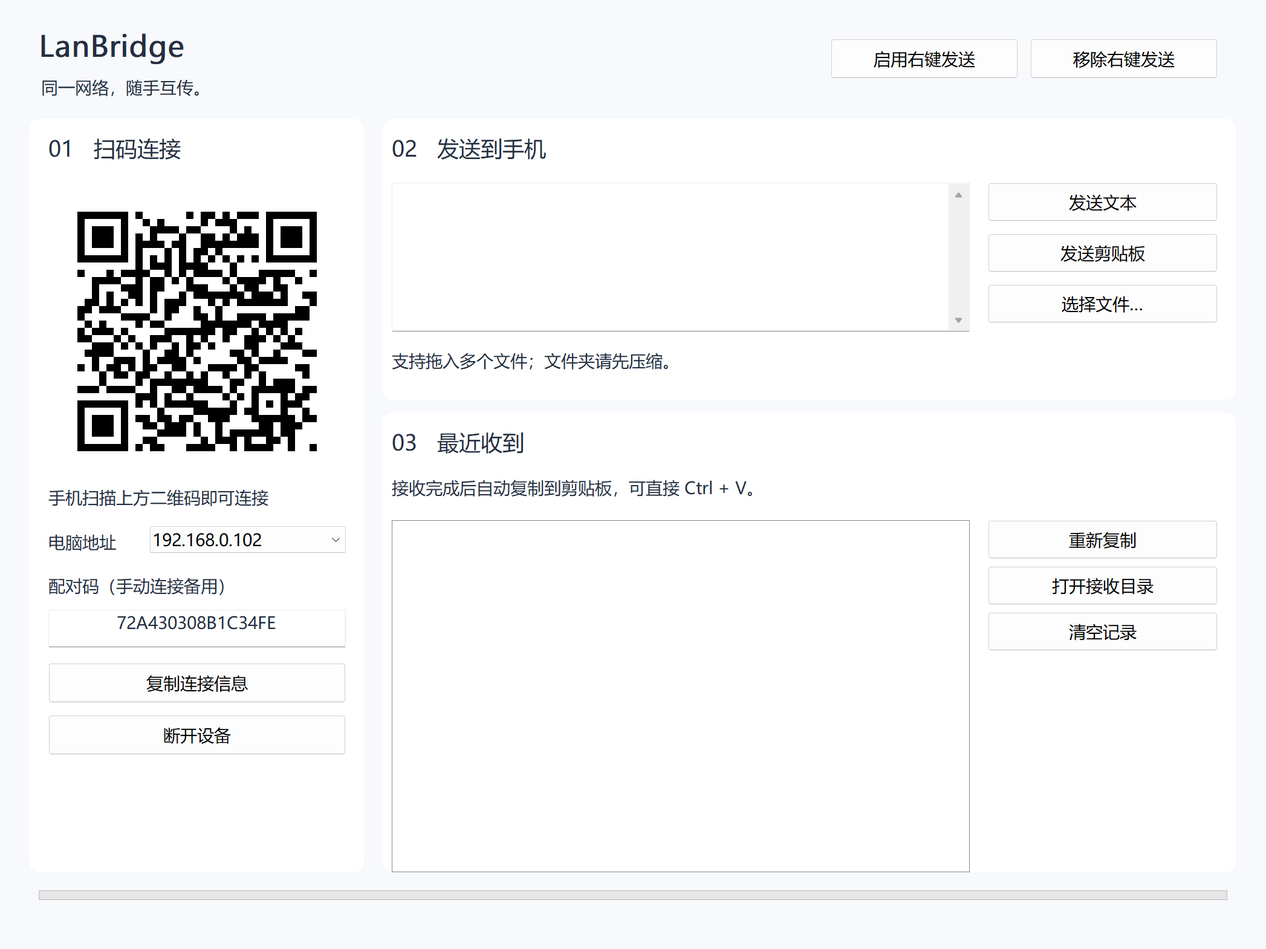
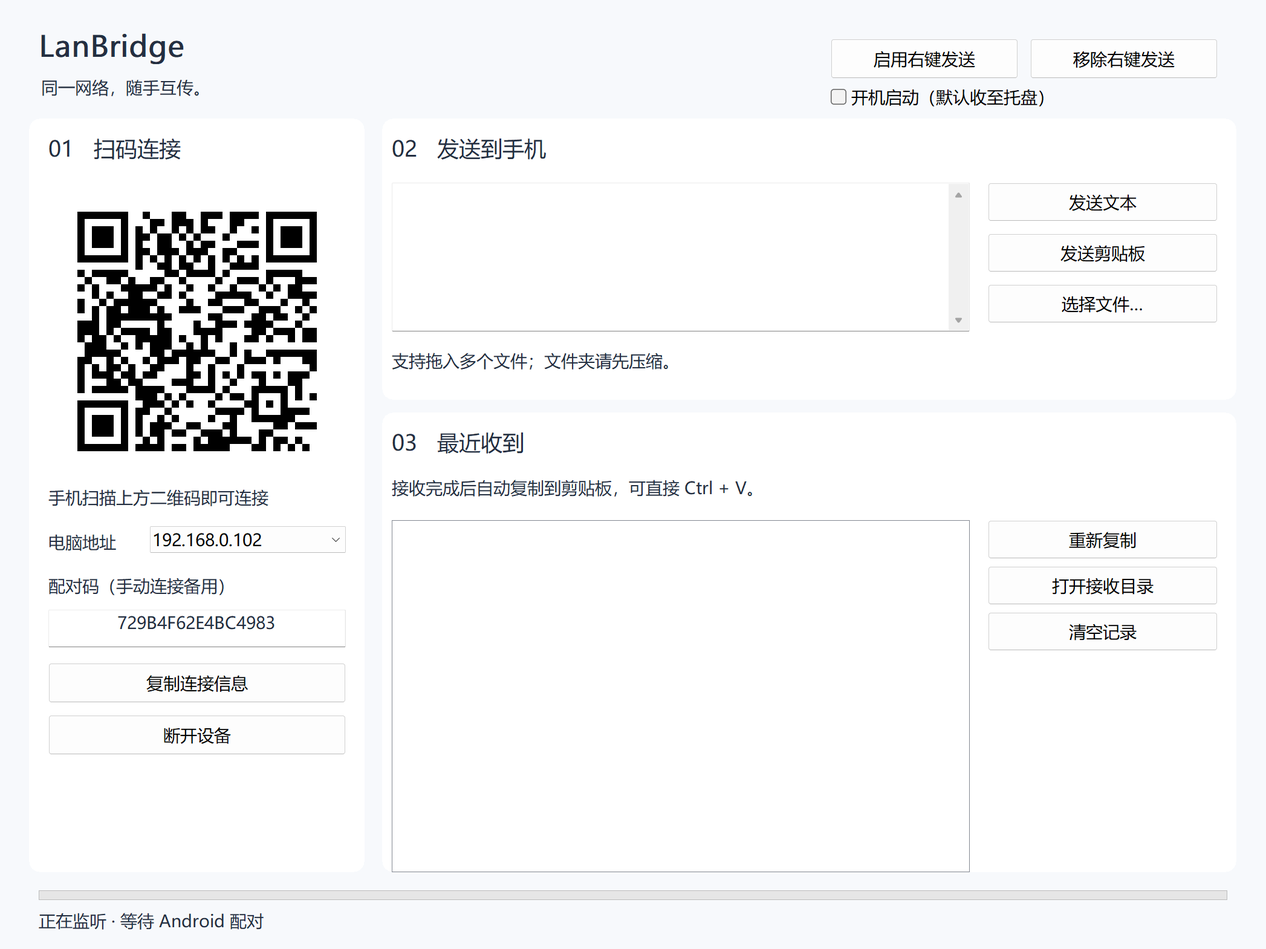
Add current-user Windows startup setting and tray launch

diff --git a/windows/tests/StartupIntegration.cpp b/windows/tests/StartupIntegration.cpp
@@ -1,0 +1,114 @@
+#include "Startup.h"
+#include "Bridge.h"
+#include "ShellTransfer.h"
+#include <shellapi.h>
+#include <objbase.h>
+#include <ws2tcpip.h>
+#include <iostream>
+#include <stdexcept>
+
+void Require(bool condition,const char* message) { if(!condition) throw std::runtime_error(message); }
+struct TemporaryKey {
+    std::wstring path;
+    TemporaryKey() {
+        GUID id{}; CoCreateGuid(&id); wchar_t text[40]{}; StringFromGUID2(id,text,40);
+        path=L"Software\\LanBridge\\StartupTest-"+std::wstring(text);
+    }
+    ~TemporaryKey() {
+        if(path.starts_with(L"Software\\LanBridge\\StartupTest-{")) RegDeleteTreeW(HKEY_CURRENT_USER,path.c_str());
+    }
+};
+void RegistryTest() {
+    TemporaryKey key; auto executable=std::filesystem::path(L"C:\\中文 folder & name\\LanBridge.exe");
+    Require(!startup::ReadCommand(HKEY_CURRENT_USER,key.path.c_str()),"Initially disabled");
+    startup::SetEnabled(false,executable,HKEY_CURRENT_USER,key.path.c_str());
+    startup::SetEnabled(true,executable,HKEY_CURRENT_USER,key.path.c_str());
+    auto command=startup::ReadCommand(HKEY_CURRENT_USER,key.path.c_str());
+    Require(command && *command==L"\"C:\\中文 folder & name\\LanBridge.exe\" --startup","Quoted Unicode startup command");
+    int count=0; auto arguments=CommandLineToArgvW(command->c_str(),&count);
+    Require(arguments && count==2 && arguments[0]==executable && std::wstring(arguments[1])==L"--startup","Startup command parses correctly"); LocalFree(arguments);
+    HKEY handle=nullptr; Require(RegOpenKeyExW(HKEY_CURRENT_USER,key.path.c_str(),0,KEY_SET_VALUE|KEY_QUERY_VALUE,&handle)==ERROR_SUCCESS,"Test registry key");
+    DWORD other=42; Require(RegSetValueExW(handle,L"OtherProgram",0,REG_DWORD,reinterpret_cast<BYTE*>(&other),sizeof(other))==ERROR_SUCCESS,"Independent startup entry");
+    startup::SetEnabled(false,executable,HKEY_CURRENT_USER,key.path.c_str());
+    Require(!startup::ReadCommand(HKEY_CURRENT_USER,key.path.c_str()),"Disable removes only LanBridge");
+    DWORD type=0,size=sizeof(other),value=0;
+    Require(RegQueryValueExW(handle,L"OtherProgram",nullptr,&type,reinterpret_cast<BYTE*>(&value),&size)==ERROR_SUCCESS && value==42,"Other entry preserved");
+    RegCloseKey(handle); startup::SetEnabled(false,executable,HKEY_CURRENT_USER,key.path.c_str());
+}
+struct RegistryBackup {
+    bool present=false,restored=false; DWORD type=0; std::vector<BYTE> bytes;
+    RegistryBackup() {
+        DWORD size=0; auto result=RegGetValueW(HKEY_CURRENT_USER,startup::RunKey,startup::ValueName,RRF_RT_ANY|RRF_NOEXPAND,nullptr,nullptr,&size);
+        if(result==ERROR_FILE_NOT_FOUND) return;
+        Require(result==ERROR_SUCCESS && size<=65536,"Backup original LanBridge startup entry");
+        bytes.resize(size); Require(RegGetValueW(HKEY_CURRENT_USER,startup::RunKey,startup::ValueName,RRF_RT_ANY|RRF_NOEXPAND,&type,bytes.data(),&size)==ERROR_SUCCESS,"Read startup backup"); bytes.resize(size); present=true;
+    }
+    void Restore() {
+        if(restored) return;
+        HKEY key=nullptr; Require(RegCreateKeyExW(HKEY_CURRENT_USER,startup::RunKey,0,nullptr,0,KEY_SET_VALUE,nullptr,&key,nullptr)==ERROR_SUCCESS,"Restore registry key");
+        auto result=present?RegSetValueExW(key,startup::ValueName,0,type,bytes.data(),static_cast<DWORD>(bytes.size())):RegDeleteValueW(key,startup::ValueName);
+        RegCloseKey(key); Require(result==ERROR_SUCCESS || (!present && result==ERROR_FILE_NOT_FOUND),"Restore original startup entry"); restored=true;
+    }
+    ~RegistryBackup() { try { Restore(); } catch(...) { std::cerr<<"ERROR: failed to restore startup entry"<<std::endl; } }
+};
+struct Process {
+    HANDLE handle=nullptr; DWORD id=0; HWND window=nullptr;
+    ~Process() {
+        DWORD owner=0; if(window) GetWindowThreadProcessId(window,&owner);
+        if(owner==id && window) SendMessageTimeoutW(window,WM_COMMAND,900,0,SMTO_ABORTIFHUNG,3000,nullptr);
+        if(handle) { WaitForSingleObject(handle,10000); CloseHandle(handle); }
+    }
+};
+void Launch(Process& process,const wchar_t* executable,bool startupLaunch) {
+    auto command=shelltransfer::QuoteArgument(executable)+(startupLaunch?L" --startup":L"");
+    STARTUPINFOW startup{sizeof(startup)}; startup.dwFlags=STARTF_USESHOWWINDOW; startup.wShowWindow=SW_SHOWNORMAL;
+    PROCESS_INFORMATION info{}; Require(CreateProcessW(executable,command.data(),nullptr,nullptr,FALSE,0,nullptr,nullptr,&startup,&info)!=FALSE,"Launch app");
+    process.handle=info.hProcess; process.id=info.dwProcessId; CloseHandle(info.hThread);
+}
+void ExitSucceeded(Process& process) {
+    Require(WaitForSingleObject(process.handle,10000)==WAIT_OBJECT_0,"Duplicate startup exited");
+    DWORD code=1; Require(GetExitCodeProcess(process.handle,&code) && code==0,"Duplicate launch success");
+}
+std::unique_ptr<bridge::Channel> Pair(HWND window) {
+    wchar_t code[64]{}; SendMessageW(GetDlgItem(window,101),WM_GETTEXT,64,reinterpret_cast<LPARAM>(code));
+    SOCKET socket=INVALID_SOCKET;
+    for(int i=0;i<100;i++) {
+        socket=::socket(AF_INET,SOCK_STREAM,IPPROTO_TCP); sockaddr_in address{}; address.sin_family=AF_INET; address.sin_addr.s_addr=htonl(INADDR_LOOPBACK); address.sin_port=htons(42831);
+        if(connect(socket,reinterpret_cast<sockaddr*>(&address),sizeof(address))==0) break;
+        closesocket(socket); socket=INVALID_SOCKET; Sleep(50);
+    }
+    Require(socket!=INVALID_SOCKET,"Tray startup listens for connections");
+    DWORD timeout=10000; setsockopt(socket,SOL_SOCKET,SO_RCVTIMEO,reinterpret_cast<char*>(&timeout),sizeof(timeout));
+    bridge::Bytes greeting(20); int done=0;
+    while(done<20) { auto size=recv(socket,reinterpret_cast<char*>(greeting.data()+done),20-done,0); Require(size>0,"Server greeting"); done+=size; }
+    auto channel=std::make_unique<bridge::Channel>(socket,bridge::Utf8(code),bridge::Bytes(greeting.begin()+4,greeting.end()),false);
+    channel->Send(1,bridge::Bytes{'S','t','a','r','t','u','p',' ','t','e','s','t'}); Require(channel->Receive().first==1,"Pair tray app"); return channel;
+}
+void Heartbeat(bridge::Channel& channel) {
+    channel.Send(7);
+    while(true) { auto [type,bytes]=channel.Receive(); if(type==7) { channel.Send(8); continue; } Require(type==8,"Connection survived duplicate startup"); return; }
+}
+int wmain(int argc,wchar_t** argv) {
+    CoInitializeEx(nullptr,COINIT_APARTMENTTHREADED); WSADATA winsock{}; WSAStartup(MAKEWORD(2,2),&winsock);
+    try {
+        RegistryTest();
+        if(argc==2 && std::wstring(argv[1])==L"--registry-only") { std::cout<<"PASS: isolated Win32 startup registry enable/disable and Unicode paths"<<std::endl; WSACleanup(); CoUninitialize(); return 0; }
+        Require(argc==2 && !FindWindowW(L"LanBridgeWindow",nullptr),"Expected app path and no running LanBridge");
+        RegistryBackup backup; Process app; Launch(app,argv[1],true); WaitForInputIdle(app.handle,10000);
+        for(int i=0;i<100 && !app.window;i++) { app.window=FindWindowW(L"LanBridgeWindow",nullptr); if(!app.window) Sleep(50); }
+        Require(app.window && !IsWindowVisible(app.window),"Startup window stays hidden despite normal show command");
+        auto channel=Pair(app.window); Heartbeat(*channel);
+        { Process duplicate; Launch(duplicate,argv[1],true); ExitSucceeded(duplicate); }
+        Require(!IsWindowVisible(app.window) && WaitForSingleObject(app.handle,0)==WAIT_TIMEOUT,"Startup duplicate neither replaces nor reveals existing app"); Heartbeat(*channel);
+        { Process manual; Launch(manual,argv[1],false); ExitSucceeded(manual); }
+        Require(IsWindowVisible(app.window) && WaitForSingleObject(app.handle,0)==WAIT_TIMEOUT,"Manual open restores original app"); Heartbeat(*channel);
+        auto checkbox=GetDlgItem(app.window,116); Require(checkbox!=nullptr,"Startup checkbox");
+        SendMessageW(checkbox,BM_SETCHECK,BST_UNCHECKED,0); SendMessageW(checkbox,BM_CLICK,0,0);
+        auto nativePath=std::filesystem::path(argv[1]); nativePath.make_preferred();
+        Require(startup::ReadCommand()==startup::CommandLine(nativePath) && SendMessageW(checkbox,BM_GETCHECK,0,0)==BST_CHECKED,"Actual UI enables startup for current executable");
+        SendMessageW(checkbox,BM_CLICK,0,0); Require(!startup::ReadCommand() && SendMessageW(checkbox,BM_GETCHECK,0,0)==BST_UNCHECKED,"Actual UI disables startup");
+        Heartbeat(*channel); channel->Close(); backup.Restore();
+        std::cout<<"PASS: startup to tray, encrypted background connection, duplicate startup preserves session, manual launch restores window, UI registry enable/disable; original startup entry restored; clipboard untouched"<<std::endl;
+        WSACleanup(); CoUninitialize(); return 0;
+    } catch(const std::exception& error) { std::cerr<<"FAIL: "<<error.what()<<std::endl; WSACleanup(); CoUninitialize(); return 1; }
+}

diff --git a/windows/src/Main.cpp b/windows/src/Main.cpp
@@ -1,5 +1,6 @@
 #include "Bridge.h"
 #include "ShellTransfer.h"
+#include "Startup.h"
 #include <commctrl.h>
 #include <commdlg.h>
 #include <dwmapi.h>
@@ -14,7 +15,8 @@
 
 namespace {
 constexpr UINT EventsMessage=WM_APP+1,TrayMessage=WM_APP+2;
-enum ControlId { Ip=100,Code,CopyLink,Disconnect,Text,SendText,SendClipboard,SendFile,OpenFolder,History,Recopy,Clear,Progress,Status,EnableMenu,DisableMenu,Qr=200,Exit=900 };
+const UINT TaskbarCreatedMessage=RegisterWindowMessageW(L"TaskbarCreated");
+enum ControlId { Ip=100,Code,CopyLink,Disconnect,Text,SendText,SendClipboard,SendFile,OpenFolder,History,Recopy,Clear,Progress,Status,EnableMenu,DisableMenu,Startup,Qr=200,Exit=900 };
 struct Record { bool file; std::wstring text; std::filesystem::path path; };
 class App {
     HWND window_=nullptr;
@@ -39,6 +41,7 @@ class App {
     bool exiting_=false;
     bool receiving_=false;
     bool senderProgress_=false;
+    bool startupEnabled_=false;
 public:
     ~App() { if(server_) server_->Stop(); if(sender_.joinable()) sender_.join(); if(integration_.joinable()) integration_.join(); for(auto f:fonts_) DeleteObject(f); DeleteObject(background_); DeleteObject(card_); }
     int Run(HINSTANCE instance,int show,const shelltransfer::Paths& initial = {}) {
@@ -80,6 +83,10 @@ private:
         Control(L"STATIC",L"同一网络，随手互传。",11);
         Control(L"BUTTON",L"启用右键发送",EnableMenu,WS_TABSTOP);
         Control(L"BUTTON",L"移除右键发送",DisableMenu,WS_TABSTOP);
+        Control(L"BUTTON",L"开机启动（默认收至托盘）",Startup,BS_AUTOCHECKBOX|WS_TABSTOP);
+        try { startupEnabled_=startup::IsEnabled(startup::ExecutablePath()); }
+        catch(const std::exception& e) { Queue({bridge::Event::Error,bridge::Wide(e.what())}); }
+        SendMessageW(Item(Startup),BM_SETCHECK,startupEnabled_?BST_CHECKED:BST_UNCHECKED,0);
         Control(L"STATIC",L"01   扫码连接",12);
         Control(L"STATIC",L"配对二维码",Qr,SS_OWNERDRAW);
         Control(L"STATIC",L"电脑地址",13);
@@ -121,6 +128,7 @@ private:
         int qrEdge=std::clamp(h-448,208,246),afterQr=151+qrEdge;
         Place(10,32,22,300,38); Place(11,34,63,500,26);
         Place(EnableMenu,w-360,32,155,33); Place(DisableMenu,w-195,32,155,33);
+        Place(Startup,w-360,68,310,24);
         Place(12,40,111,246,28); Place(Qr,40+(246-qrEdge)/2,151,qrEdge,qrEdge);
         Place(15,40,afterQr+5,246,28);
         Place(13,40,afterQr+42,80,25); Place(Ip,124,afterQr+38,162,240);
@@ -275,6 +283,17 @@ private:
         case Disconnect: server_->Disconnect(); break;
         case EnableMenu: Integration(true); break;
         case DisableMenu: Integration(false); break;
+        case Startup: {
+            bool enabled=SendMessageW(Item(Startup),BM_GETCHECK,0,0)==BST_CHECKED;
+            try {
+                startup::SetEnabled(enabled,startup::ExecutablePath()); startupEnabled_=enabled;
+                StatusText(enabled?L"已开启开机启动 · 登录 Windows 后默认收至托盘":L"已关闭开机启动");
+            } catch(const std::exception& e) {
+                SendMessageW(Item(Startup),BM_SETCHECK,startupEnabled_?BST_CHECKED:BST_UNCHECKED,0);
+                StatusText(bridge::Wide(e.what()));
+            }
+            break;
+        }
         case SendText: { auto text=Value(Text); Send([this,text] { server_->SendText(text); }); break; }
         case SendClipboard: {
             auto files=bridge::ReadFiles(window_);
@@ -305,6 +324,7 @@ private:
         auto* app=reinterpret_cast<App*>(GetWindowLongPtrW(h,GWLP_USERDATA));
         if(m==WM_NCCREATE) { app=static_cast<App*>(reinterpret_cast<CREATESTRUCTW*>(l)->lpCreateParams); app->window_=h; SetWindowLongPtrW(h,GWLP_USERDATA,reinterpret_cast<LONG_PTR>(app)); }
         if(!app) return DefWindowProcW(h,m,w,l);
+        if(TaskbarCreatedMessage && m==TaskbarCreatedMessage) { Shell_NotifyIconW(NIM_ADD,&app->tray_); return 0; }
         switch(m) {
         case WM_CREATE: app->Create(); return 0;
         case WM_SIZE: if(w!=SIZE_MINIMIZED && !app->fonts_.empty()) app->Layout(); return 0;
@@ -333,9 +353,14 @@ private:
                 AppendMenuW(menu,MF_SEPARATOR,0,nullptr);
                 AppendMenuW(menu,MF_STRING|(app->integrating_?MF_GRAYED:0),EnableMenu,L"启用右键发送");
                 AppendMenuW(menu,MF_STRING|(app->integrating_?MF_GRAYED:0),DisableMenu,L"移除右键发送");
+                AppendMenuW(menu,MF_STRING|(app->startupEnabled_?MF_CHECKED:0),Startup,L"开机启动（收至托盘）");
                 AppendMenuW(menu,MF_SEPARATOR,0,nullptr); AppendMenuW(menu,MF_STRING,Exit,L"退出"); POINT p; GetCursorPos(&p); SetForegroundWindow(h);
                 auto id=TrackPopupMenu(menu,TPM_RETURNCMD|TPM_RIGHTBUTTON,p.x,p.y,0,h,nullptr); DestroyMenu(menu);
-                if(id==1) { ShowWindow(h,SW_RESTORE); SetForegroundWindow(h); } else if(id) app->Command(id);
+                if(id==1) { ShowWindow(h,SW_RESTORE); SetForegroundWindow(h); }
+                else if(id) {
+                    if(id==Startup) SendMessageW(app->Item(Startup),BM_SETCHECK,app->startupEnabled_?BST_UNCHECKED:BST_CHECKED,0);
+                    app->Command(id);
+                }
             } return 0;
         }
         case WM_CLOSE: ShowWindow(h,SW_HIDE); app->StatusText(L"已收起到托盘，继续等待接收"); return 0;
@@ -344,6 +369,11 @@ private:
         case WM_CTLCOLORSTATIC: {
             auto dc=reinterpret_cast<HDC>(w); SetTextColor(dc,RGB(36,47,65)); SetBkMode(dc,TRANSPARENT);
             int id=GetDlgCtrlID(reinterpret_cast<HWND>(l)); return reinterpret_cast<LRESULT>(id==10 || id==11 || id==Status?app->background_:app->card_);
+        }
+        case WM_CTLCOLORBTN: {
+            if(GetDlgCtrlID(reinterpret_cast<HWND>(l))!=Startup) break;
+            SetTextColor(reinterpret_cast<HDC>(w),RGB(36,47,65)); SetBkMode(reinterpret_cast<HDC>(w),TRANSPARENT);
+            return reinterpret_cast<LRESULT>(app->background_);
         }
         case WM_ERASEBKGND: return 1;
         case WM_PRINTCLIENT: app->Paint(reinterpret_cast<HDC>(w)); return 0;
@@ -358,10 +388,12 @@ private:
 }
 int WINAPI wWinMain(HINSTANCE instance,HINSTANCE,PWSTR,int show) {
     shelltransfer::Paths initial;
+    bool startupLaunch=false;
     try {
         int argc=0; auto argv=CommandLineToArgvW(GetCommandLineW(),&argc);
         if(!argv) return 1;
-        bool valid=argc==1 || (argc==3 && wcscmp(argv[1],L"--send-request")==0);
+        startupLaunch=argc==2 && CompareStringOrdinal(argv[1],-1,L"--startup",-1,TRUE)==CSTR_EQUAL;
+        bool valid=argc==1 || startupLaunch || (argc==3 && wcscmp(argv[1],L"--send-request")==0);
         std::filesystem::path request=argc==3?argv[2]:L""; LocalFree(argv);
         if(!valid) throw std::runtime_error("Invalid command line");
         if(!request.empty()) initial=shelltransfer::ReadRequest(request);
@@ -373,12 +405,12 @@ int WINAPI wWinMain(HINSTANCE instance,HINSTANCE,PWSTR,int show) {
         if(!initial.empty()) {
             try { accepted=h && shelltransfer::Forward(h,initial); } catch(...) { accepted=false; }
             if(!accepted) MessageBoxW(nullptr,L"无法将文件交给正在运行的 LanBridge。请确认运行的是新版程序，或退出旧版后重试。",L"LanBridge",MB_ICONERROR);
-        } else if(h) { ShowWindow(h,SW_RESTORE); SetForegroundWindow(h); }
+        } else if(h && !startupLaunch) { ShowWindow(h,SW_RESTORE); SetForegroundWindow(h); }
         CloseHandle(mutex); return accepted?0:1;
     }
     SetProcessDpiAwarenessContext(DPI_AWARENESS_CONTEXT_PER_MONITOR_AWARE_V2);
     CoInitializeEx(nullptr,COINIT_APARTMENTTHREADED); INITCOMMONCONTROLSEX controls{sizeof(controls),ICC_STANDARD_CLASSES|ICC_PROGRESS_CLASS}; InitCommonControlsEx(&controls);
     int result=1;
-    try { App app; result=app.Run(instance,show,initial); } catch(const std::exception& e) { MessageBoxW(nullptr,bridge::Wide(e.what()).c_str(),L"LanBridge",MB_ICONERROR); }
+    try { App app; result=app.Run(instance,startupLaunch?SW_HIDE:show,initial); } catch(const std::exception& e) { MessageBoxW(nullptr,bridge::Wide(e.what()).c_str(),L"LanBridge",MB_ICONERROR); }
     CoUninitialize(); if(mutex) CloseHandle(mutex); return result;
 }

diff --git a/windows/src/Startup.cpp b/windows/src/Startup.cpp
@@ -1,0 +1,60 @@
+#include "Startup.h"
+#include "ShellTransfer.h"
+#include <system_error>
+
+namespace startup {
+namespace {
+struct RegistryKey {
+    HKEY value=nullptr;
+    ~RegistryKey() { if(value) RegCloseKey(value); }
+};
+void Check(LSTATUS result) {
+    if(result!=ERROR_SUCCESS) throw std::system_error(result,std::system_category(),"开机启动设置失败");
+}
+}
+std::filesystem::path ExecutablePath() {
+    std::wstring path(32768,L'\0');
+    DWORD size=GetModuleFileNameW(nullptr,path.data(),static_cast<DWORD>(path.size()));
+    if(!size || size>=path.size()) throw std::runtime_error("无法读取程序路径");
+    path.resize(size); return path;
+}
+std::wstring CommandLine(const std::filesystem::path& executable) {
+    auto path=executable.wstring();
+    if(!executable.is_absolute() || path.empty() || path.size()>=32700 || path.find(L'\0')!=std::wstring::npos)
+        throw std::invalid_argument("无效的开机启动程序路径");
+    return shelltransfer::QuoteArgument(path)+L" --startup";
+}
+std::optional<std::wstring> ReadCommand(HKEY root,const wchar_t* key) {
+    RegistryKey handle; auto result=RegOpenKeyExW(root,key,0,KEY_QUERY_VALUE,&handle.value);
+    if(result==ERROR_FILE_NOT_FOUND) return std::nullopt; Check(result);
+    DWORD type=0,size=0;
+    result=RegQueryValueExW(handle.value,ValueName,nullptr,&type,nullptr,&size);
+    if(result==ERROR_FILE_NOT_FOUND) return std::nullopt; Check(result);
+    if(type!=REG_SZ || size<sizeof(wchar_t) || size>65536 || size%sizeof(wchar_t)) return std::nullopt;
+    std::wstring value(size/sizeof(wchar_t),L'\0');
+    Check(RegQueryValueExW(handle.value,ValueName,nullptr,&type,reinterpret_cast<BYTE*>(value.data()),&size));
+    if(type!=REG_SZ || size<sizeof(wchar_t) || size%sizeof(wchar_t)) return std::nullopt;
+    value.resize(size/sizeof(wchar_t));
+    if(value.back()!=L'\0') return std::nullopt;
+    value.pop_back(); if(value.find(L'\0')!=std::wstring::npos) return std::nullopt;
+    return value;
+}
+bool IsEnabled(const std::filesystem::path& executable) {
+    auto command=ReadCommand(); auto expected=CommandLine(executable);
+    return command && CompareStringOrdinal(command->c_str(),-1,expected.c_str(),-1,TRUE)==CSTR_EQUAL;
+}
+void SetEnabled(bool enabled,const std::filesystem::path& executable,HKEY root,const wchar_t* key) {
+    RegistryKey handle;
+    if(enabled) {
+        auto command=CommandLine(executable);
+        Check(RegCreateKeyExW(root,key,0,nullptr,REG_OPTION_NON_VOLATILE,KEY_SET_VALUE,nullptr,&handle.value,nullptr));
+        Check(RegSetValueExW(handle.value,ValueName,0,REG_SZ,reinterpret_cast<const BYTE*>(command.c_str()),
+            static_cast<DWORD>((command.size()+1)*sizeof(wchar_t))));
+    } else {
+        auto result=RegOpenKeyExW(root,key,0,KEY_SET_VALUE,&handle.value);
+        if(result==ERROR_FILE_NOT_FOUND) return; Check(result);
+        result=RegDeleteValueW(handle.value,ValueName);
+        if(result!=ERROR_FILE_NOT_FOUND) Check(result);
+    }
+}
+}

diff --git a/windows/src/Startup.h b/windows/src/Startup.h
@@ -1,0 +1,15 @@
+#pragma once
+#include <windows.h>
+#include <filesystem>
+#include <optional>
+#include <string>
+
+namespace startup {
+inline constexpr wchar_t RunKey[] = L"Software\\Microsoft\\Windows\\CurrentVersion\\Run";
+inline constexpr wchar_t ValueName[] = L"LanBridge";
+std::filesystem::path ExecutablePath();
+std::wstring CommandLine(const std::filesystem::path& executable);
+std::optional<std::wstring> ReadCommand(HKEY root=HKEY_CURRENT_USER,const wchar_t* key=RunKey);
+bool IsEnabled(const std::filesystem::path& executable);
+void SetEnabled(bool enabled,const std::filesystem::path& executable,HKEY root=HKEY_CURRENT_USER,const wchar_t* key=RunKey);
+}

diff --git a/README.md b/README.md
@@ -1,6 +1,6 @@
 # LanBridge · Windows / Android 局域网互传
 
-桌面项目包含完整源码和可运行文件。Windows 当前版本 1.3.1，Android 版本 1.2.2。支持扫码配对、手机分享后自动发送，以及 Windows 11 第一层右键菜单“发送到手机”。
+桌面项目包含完整源码和可运行文件。Windows 当前版本 1.4.0，Android 版本 1.2.2。支持扫码配对、手机分享后自动发送，以及 Windows 11 第一层右键菜单“发送到手机”。
 
 - **Windows**：C++20，纯 Win32 API 窗口与标准控件，原生 DPI 缩放、托盘、文件对话框和拖放；网络使用 Winsock2，加密使用 BCrypt。界面参考 `native-screenshot-tool` 的中文原生控件设计。
 - **Android**：Kotlin + Jetpack Compose BOM 2026.09.00 + Material 3 Expressive 1.5.0-beta01，实际使用 `MaterialExpressiveTheme`、动态配色、Expressive 动效与加载组件，支持深色模式和宽屏双栏。Material 3 Expressive 当前使用 Beta API。
@@ -19,6 +19,14 @@
 6. Windows 中选择文件、拖入文件或点击发送剪贴板，也可发送编辑框中的文本。手机收到的文件在系统“下载/LanBridge”目录，文本可手动复制。
 
 Windows 接收目录为当前用户的 **下载/LanBridge**。右上角关闭按钮收起到托盘，仍继续接收；彻底退出使用托盘右键菜单。配对码每次启动重新生成。一次连接一台手机，多文件按顺序传输；文件夹请先压缩。连续接收多个文件时剪贴板保留最后一个文件，其余文件可在历史列表中重新复制。
+
+## Windows 开机启动
+
+勾选窗口右上角 **开机启动（默认收至托盘）**，或在托盘右键菜单勾选“开机启动”。实现参考 `native-screenshot-tool`，使用纯 Win32 API 写入当前用户的 `HKCU\Software\Microsoft\Windows\CurrentVersion\Run`，值名为 `LanBridge`，命令为带引号的完整程序路径加 `--startup`，无需管理员权限。
+
+登录 Windows 后程序直接在托盘运行并等待连接，不弹出主窗口。手动双击程序或点击托盘图标会显示窗口；重复的自启动不会弹窗、重启已有实例或断开现有连接。取消勾选会删除本程序的启动项，设置保存在启动项本身，不会在下次启动时自动重新开启。初次运行默认不勾选，本机按用户要求已启用。
+
+便携目录移动后，在新位置打开程序并勾选开机启动以更新路径；删除程序前先取消勾选。如果曾在 Windows 任务管理器中单独禁用 LanBridge 的启动项，需要在任务管理器中重新启用。开机启动只启动 Windows 程序，手机仍需扫描这次启动生成的新二维码。
 
 ## Windows 11 右键发送
 
@@ -99,6 +107,7 @@ cd ..
 - Windows 原生协议集成测试：双向 Unicode 文本与文件、SHA-256、空文件、同名文件、心跳、错误配对码、目录穿越拒绝及临时文件清理。
 - Windows ShellIntegration：原生 COM 命令标题/图标、多文件状态、文件夹隐藏、无效 IPC 拒绝、中文路径、命令行引用、首次右键启动后等待配对、复用运行中程序、队列顺序，以及已连接后的多文件发送与 SHA-256 校验；不改写剪贴板。
 - Windows 已注册菜单回归：使用 `ShellIntegration.exe --registered-live 完整路径\LanBridge.exe`，在加密连接已建立时经系统激活菜单 30 次，验证原进程与连接存活，再实际调用已注册菜单发送两个文件并校验 SHA-256。需预先启用菜单、关闭其他 LanBridge 实例；不改写剪贴板。
+- Windows StartupIntegration：真实注册表读写、中文和带空格路径、取消时保留其他启动项、`--startup` 隐藏窗口但可加密连接、重复自启动保持原连接，以及手动打开恢复窗口。UI 测试备份并恢复原 LanBridge 启动项，不改写剪贴板。
 - Windows 实际窗口测试：接收后自动生成 `CF_UNICODETEXT` / `CF_HDROP`、反向发送、接收历史和重新复制；测试会保存并恢复原剪贴板。若原剪贴板含无法保存的虚拟文件数据，测试会跳过，避免覆盖用户内容。
 - Android JVM 测试：配对输入校验；**实际生产 Wire.kt** 与 Windows BCrypt 服务互通，覆盖 0、1、262144、262145、1048593 字节文件以及 Unicode 文本和心跳。
 - Android 二维码测试：配对格式与无效二维码拒绝、相机亮度缓冲区行间距/像素间距处理、空画面、Windows 实际界面解码、地址刷新及旋转画面。

diff --git a/docs/VALIDATION.md b/docs/VALIDATION.md
@@ -1,16 +1,18 @@
 # 验证记录
 
-验证日期：2026-10-11。Windows 1.3.1，Android 1.2.2。本次修复 Windows 11 右键加载菜单造成主程序退出、手机断线的问题；Android 真机分享结果来自 1.2.1，界面检查来自 1.2.2。Windows x64；MSVC 19.44；JDK 21；Gradle 9.3.1；AGP 9.1.1。
+验证日期：2026-10-11。Windows 1.4.0，Android 1.2.2。本次增加与 `native-screenshot-tool` 同方式的当前用户开机启动设置；保留 1.3.1 的右键加载菜单断线修复。Android 真机分享结果来自 1.2.1，界面检查来自 1.2.2。Windows x64；MSVC 19.44；JDK 21；Gradle 9.3.1；AGP 9.1.1。
 
 | 检查 | 结果 |
 | --- | --- |
 | Windows Release 构建 | 通过；静态 C++ 运行库；只依赖系统 DLL |
+| StartupIntegration | 通过；独立测试键验证带空格和中文路径的命令、反复启用/取消和保留其他启动项；实际窗口以 `--startup` 保持隐藏并建立加密连接，重复自启动保持原连接，手动启动显示同一窗口；勾选框实际写入/删除 Run 值，结束后恢复原启动项；不改写剪贴板 |
+| 本机开机启动配置 | 已启用；通过正式程序勾选框配置当前用户 Run 值 `LanBridge`，实际值为 `"C:\Users\Admin\Desktop\LanBridge\LanBridge.exe" --startup`，勾选状态同步；未执行电脑重启，登录启动行为通过上述真实进程参数测试验证 |
 | 默认地址回归验证 | 通过；VPN `tun0`、VMware 与 Hyper-V 同时启用时，生产 `LocalAddresses()` 将真实 Wi-Fi `192.168.0.102` 排在第一位；虚拟网卡仅允许手动选择 |
 | BridgeIntegration | 通过；双向文本/文件、空文件、同名文件、心跳、坏摘要、错误配对码、目录穿越和中断清理 |
 | UiIntegration 剪贴板测试 | 本次通过；实际 Win32 窗口双向文本/文件、自动复制、历史重新复制；结束后恢复原剪贴板 |
 | ShellIntegration | 通过；原生 IExplorerCommand、中文与多文件路径、格式损坏/相对路径/非法请求文件拒绝、文件夹隐藏、首次启动排队、已运行实例转交、连接后按序自动发送及 SHA-256 |
 | Windows 本地文件读取失败 | 通过；不存在的待发送文件报错后，原连接继续发送文本成功 |
-| Windows 11 菜单身份包 | MakeAppx 构建、Authenticode 签名验证及实际 Add-AppxPackage 注册通过；版本 1.3.1.0，外部目录绑定至桌面项目；随附公开证书，私钥未导出 |
+| Windows 11 菜单身份包 | MakeAppx 构建、Authenticode 签名验证及实际 Add-AppxPackage 注册通过；版本 1.4.0.0，外部目录绑定至桌面项目；随附公开证书，私钥未导出 |
 | 已注册 Shell COM 激活（空闲） | 通过；Windows 实际激活已注册的 packaged COM surrogate，检查中文命令标题、手机图标、多文件可用状态与混合文件夹隐藏状态 |
 | 已连接时加载已注册菜单 | 通过；原生测试客户端先建立加密连接，再经系统 COM 注册激活菜单 30 次，每次释放后检查原主进程和同一连接心跳；随后经已注册 Invoke 发送两个文件，文件名、内容、SHA-256 全部一致；测试不改写剪贴板 |
 | 主程序身份隔离 | 通过；GetPackageFullName 验证传输进程无包身份，菜单仍由系统 packaged COM surrogate 激活。1.3.0 嵌入主程序的 MSIX 身份已移除 |
